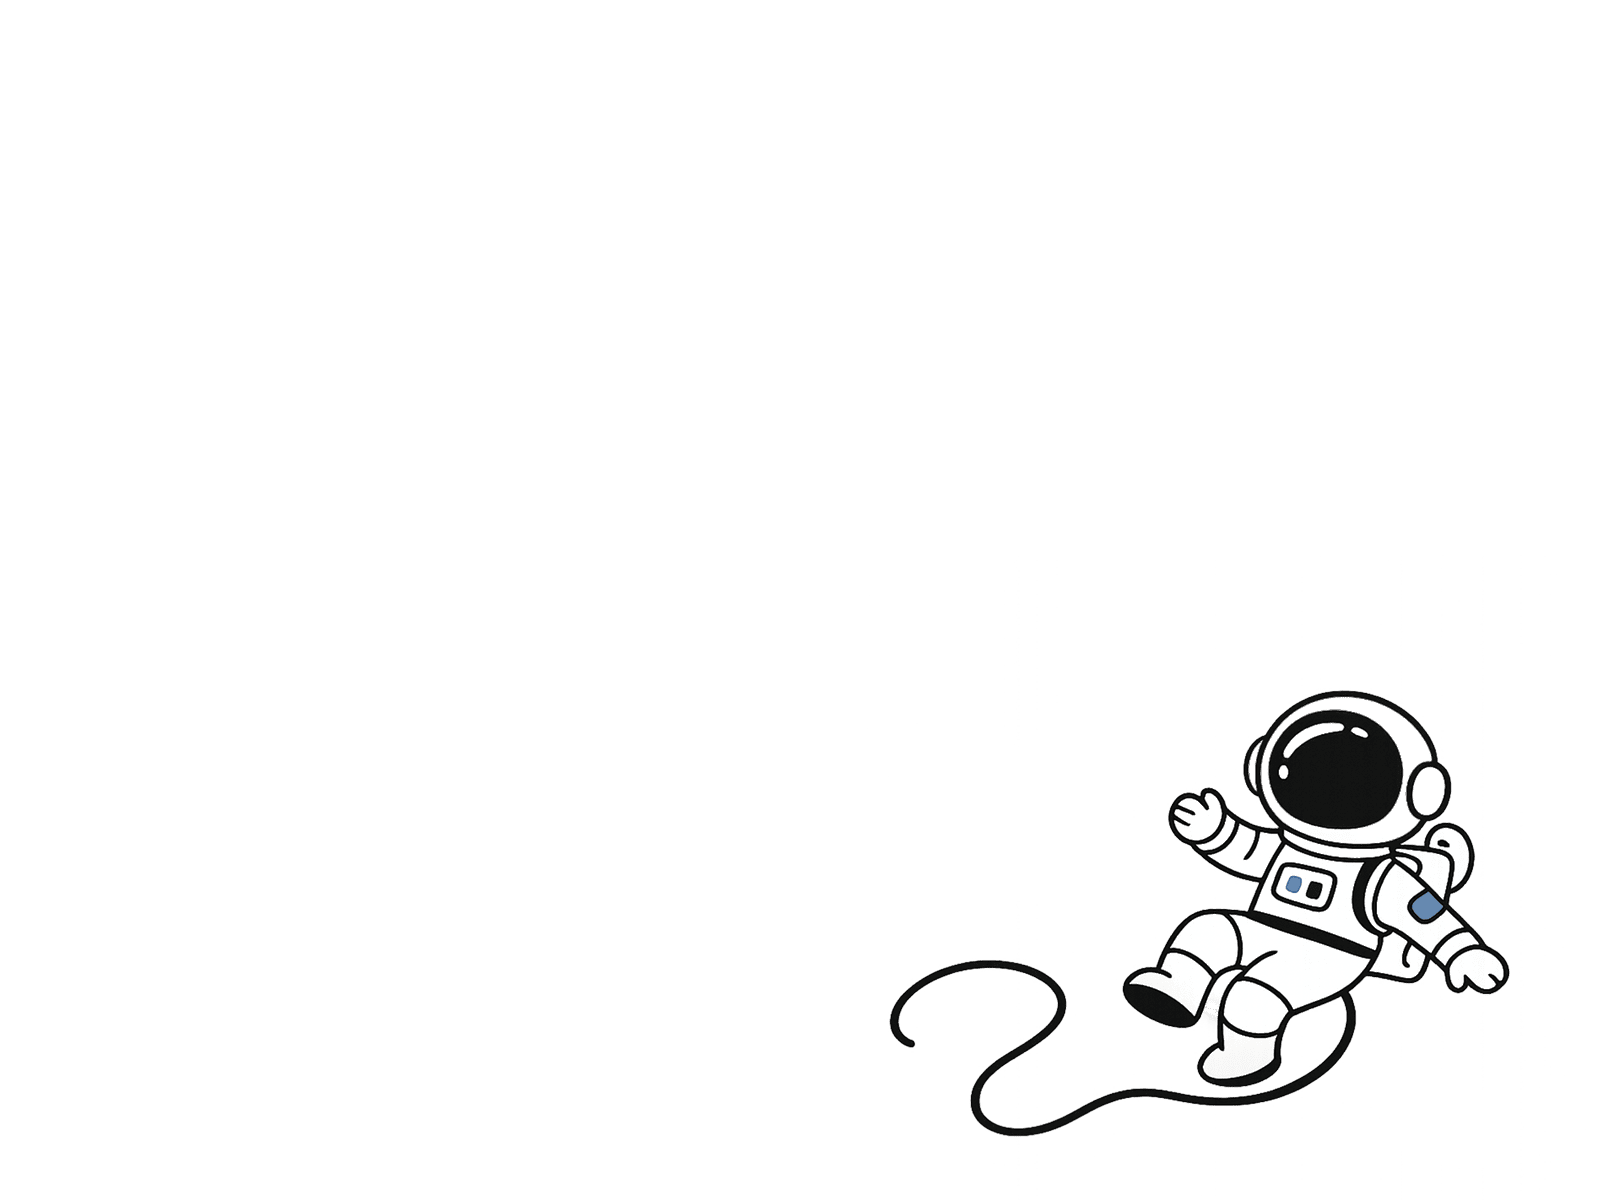
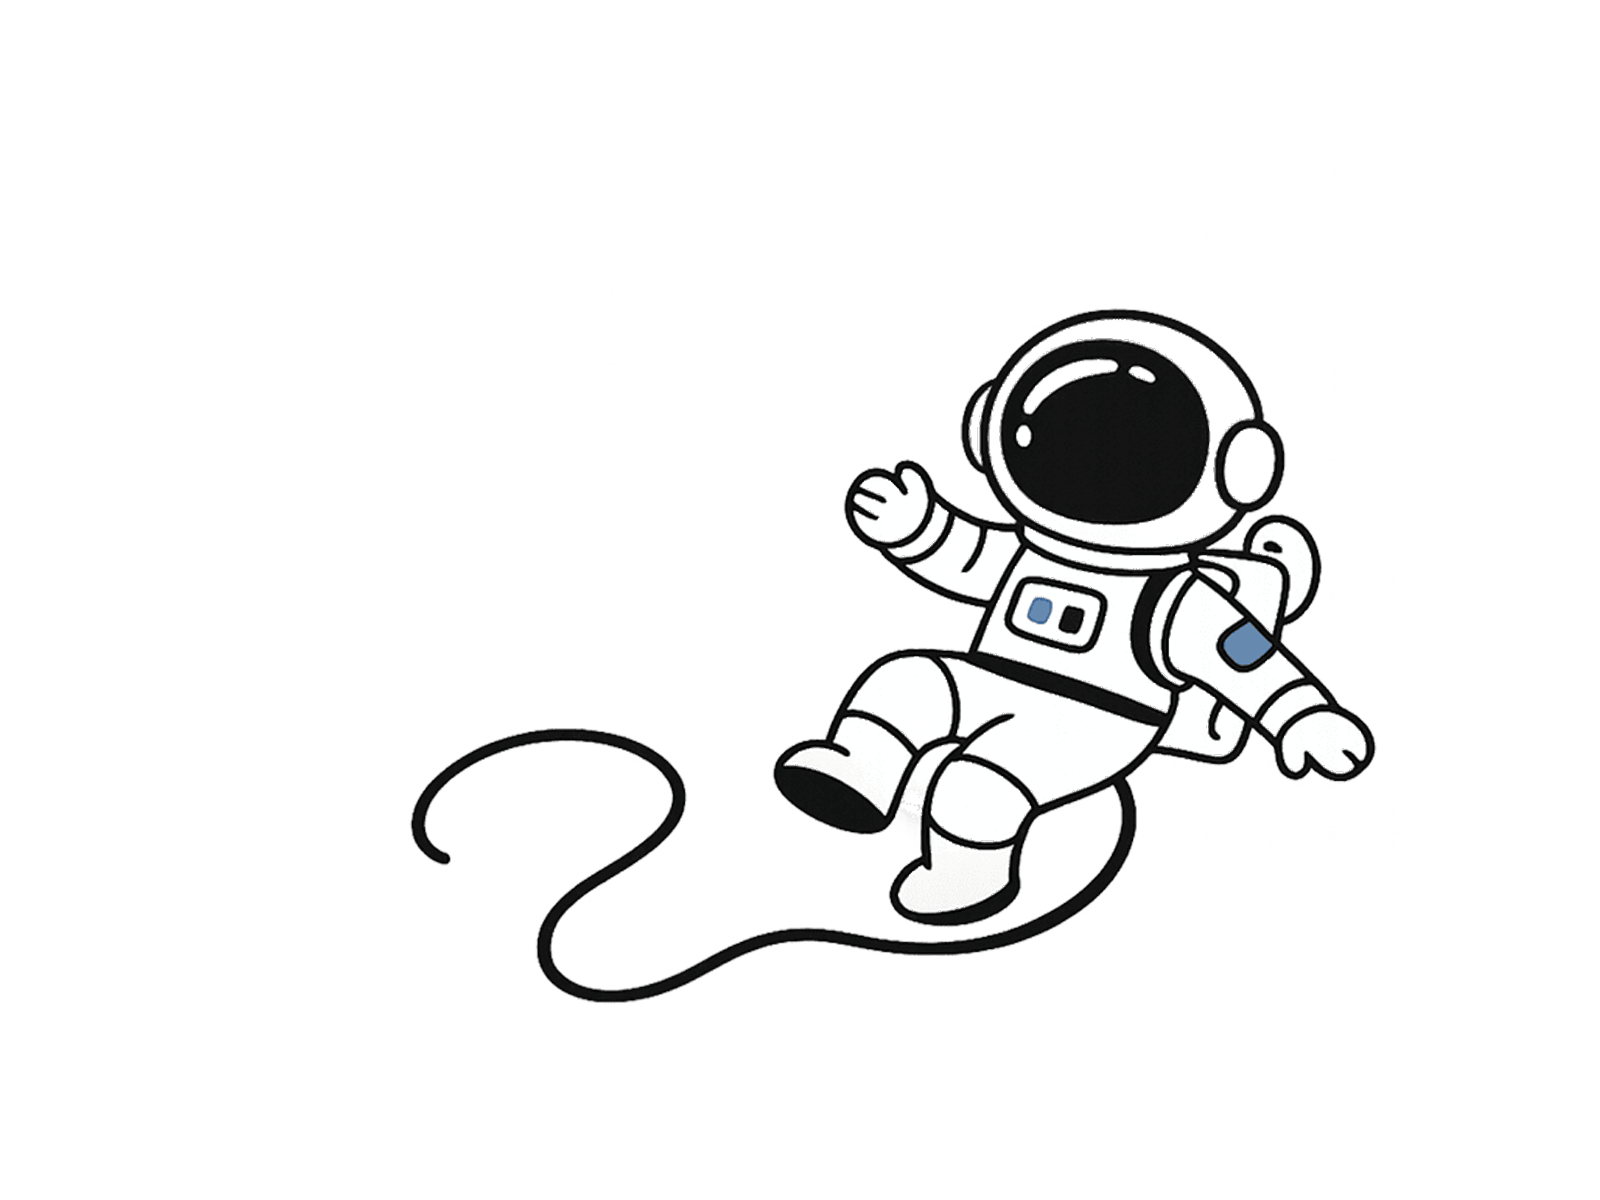
/experiencia: ilustraciones actualizadas (moon, saturno, astronauta2) + pipeline de conversión

diff --git a/scripts/actualizar-ilustraciones.py b/scripts/actualizar-ilustraciones.py
@@ -1,0 +1,76 @@
+#!/usr/bin/env python3
+"""
+Pipeline de ilustraciones de /experiencia.
+Detecta PNGs nuevos o actualizados en public/ilustraciones, les limpia
+el lienzo (velo semitransparente + fondo blanco conectado al borde) y
+los convierte a WebP. Uso:  python3 scripts/actualizar-ilustraciones.py
+"""
+import os, sys
+import numpy as np
+from PIL import Image
+
+DIR = os.path.join(os.path.dirname(__file__), "..", "public", "ilustraciones")
+# estas conservan su suelo blanco opaco (van full-bleed por CSS)
+NO_FLOOD = {"moon.png", "innicion_.png"}
+
+def clean(path):
+    f = os.path.basename(path)
+    im = Image.open(path).convert("RGBA")
+    a = np.array(im).astype(np.uint8)
+    r, g, b = a[..., 0].astype(int), a[..., 1].astype(int), a[..., 2].astype(int)
+    al = a[..., 3].astype(int)
+    whitish = (r >= 222) & (g >= 222) & (b >= 222)
+
+    semi = (al > 0) & (al < 250) & whitish
+    a[..., 3][semi] = 0
+    al[semi] = 0
+
+    if f not in NO_FLOOD:
+        bg = whitish | (al == 0)
+        h, w = bg.shape
+        s = 4
+        H, W = h // s, w // s
+        small = bg[:H*s, :W*s].reshape(H, s, W, s).all(axis=(1, 3))
+        conn = np.zeros_like(small)
+        conn[0, :] = small[0, :]; conn[-1, :] = small[-1, :]
+        conn[:, 0] |= small[:, 0]; conn[:, -1] |= small[:, -1]
+        while True:
+            grown = conn.copy()
+            grown[1:, :] |= conn[:-1, :]; grown[:-1, :] |= conn[1:, :]
+            grown[:, 1:] |= conn[:, :-1]; grown[:, :-1] |= conn[:, 1:]
+            grown &= small
+            if (grown == conn).all(): break
+            conn = grown
+        full = np.zeros_like(bg)
+        full[:H*s, :W*s] = np.repeat(np.repeat(conn, s, axis=0), s, axis=1)
+        full &= bg
+        for _ in range(8):
+            grown = full.copy()
+            grown[1:, :] |= full[:-1, :]; grown[:-1, :] |= full[1:, :]
+            grown[:, 1:] |= full[:, :-1]; grown[:, :-1] |= full[:, 1:]
+            grown &= bg
+            full = grown
+        full[0:2, :] |= bg[0:2, :]; full[-2:, :] |= bg[-2:, :]
+        full[:, 0:2] |= bg[:, 0:2]; full[:, -2:] |= bg[:, -2:]
+        a[..., 3][full] = 0
+
+    Image.fromarray(a).save(path)
+
+def main():
+    os.chdir(DIR)
+    pend = []
+    for f in sorted(os.listdir(".")):
+        if not f.endswith(".png"): continue
+        w = f.replace(".png", ".webp")
+        if not os.path.exists(w) or os.path.getmtime(f) > os.path.getmtime(w):
+            pend.append(f)
+    if not pend:
+        print("Nada que actualizar."); return
+    for f in pend:
+        clean(f)
+        f_webp = f.replace(".png", ".webp")
+        Image.open(f).save(f_webp, "WEBP", quality=82, method=4)
+        print("actualizado:", f, "->", f_webp, flush=True)
+
+if __name__ == "__main__":
+    main()
